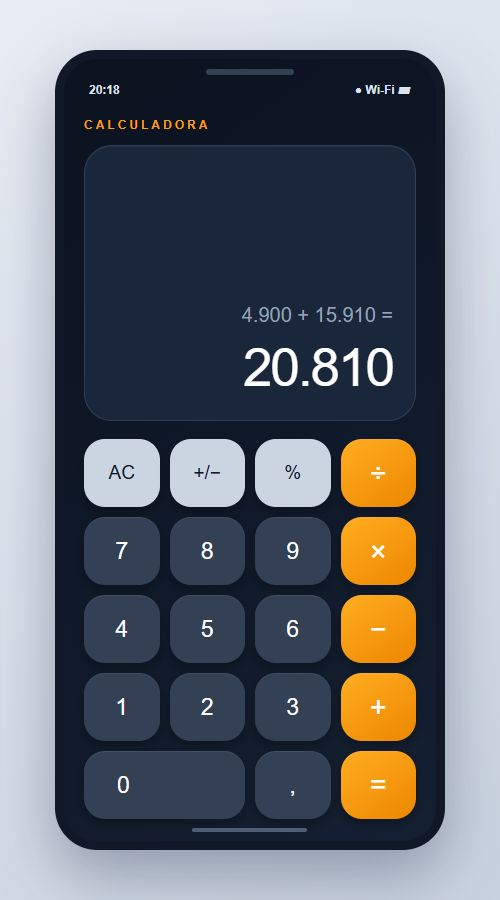
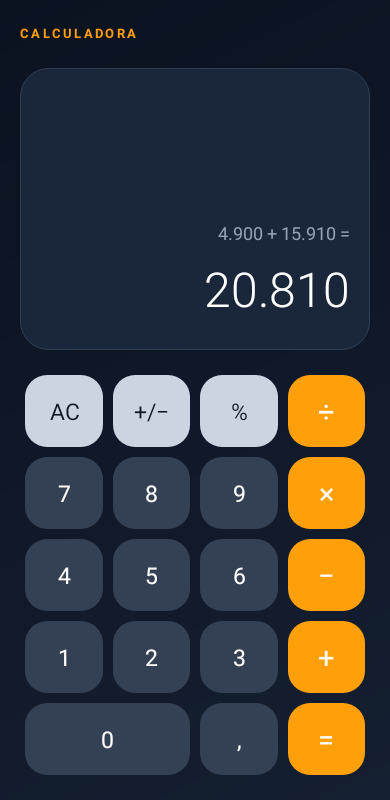
test: valida interface e gera captura Android

diff --git a/app/src/test/java/com/ramyres/calculadora/ScreenshotTest.kt b/app/src/test/java/com/ramyres/calculadora/ScreenshotTest.kt
@@ -1,0 +1,56 @@
+package com.ramyres.calculadora
+
+import android.graphics.Bitmap
+import android.graphics.Canvas
+import android.view.View
+import android.view.ViewGroup
+import android.widget.TextView
+import org.junit.Test
+import org.junit.runner.RunWith
+import org.robolectric.Robolectric
+import org.robolectric.RobolectricTestRunner
+import org.robolectric.annotation.Config
+import org.robolectric.annotation.GraphicsMode
+import java.io.File
+import java.io.FileOutputStream
+
+@RunWith(RobolectricTestRunner::class)
+@Config(sdk = [35], qualifiers = "w390dp-h800dp-mdpi")
+@GraphicsMode(GraphicsMode.Mode.NATIVE)
+class ScreenshotTest {
+    @Test
+    fun geraPrintComCalculoExecutado() {
+        val activity = Robolectric.buildActivity(MainActivity::class.java).setup().visible().get()
+        val root = activity.findViewById<ViewGroup>(android.R.id.content).getChildAt(0)
+
+        listOf("4", "9", "0", "0", "+", "1", "5", "9", "1", "0", "=").forEach { label ->
+            findText(root, label).performClick()
+        }
+
+        val width = 390
+        val height = 800
+        root.measure(
+            View.MeasureSpec.makeMeasureSpec(width, View.MeasureSpec.EXACTLY),
+            View.MeasureSpec.makeMeasureSpec(height, View.MeasureSpec.EXACTLY)
+        )
+        root.layout(0, 0, width, height)
+
+        val bitmap = Bitmap.createBitmap(width, height, Bitmap.Config.ARGB_8888)
+        root.draw(Canvas(bitmap))
+        val workingDirectory = requireNotNull(System.getProperty("user.dir"))
+        val projectRoot = requireNotNull(File(workingDirectory).parentFile)
+        val output = projectRoot.resolve("docs/calculadora-executando.png")
+        output.parentFile?.mkdirs()
+        FileOutputStream(output).use { bitmap.compress(Bitmap.CompressFormat.PNG, 100, it) }
+    }
+
+    private fun findText(view: View, text: String): TextView {
+        if (view is TextView && view.text.toString() == text) return view
+        if (view is ViewGroup) {
+            for (index in 0 until view.childCount) {
+                runCatching { return findText(view.getChildAt(index), text) }
+            }
+        }
+        error("Botão $text não encontrado")
+    }
+}
